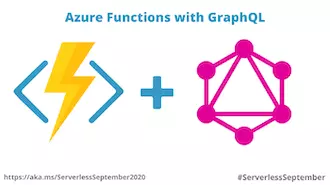
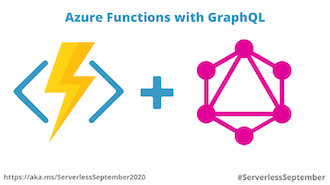
Changed png to webp

diff --git a/_layouts/home.html b/_layouts/home.html
@@ -776,7 +776,7 @@
 								<span class="category">Serverless</span>
 							</a><br>
 							<a href="https://medium.com/@ramanaditya/serverless-with-graphql-c0bf59078303">
-								<img src="assets/images/blog/serverless_with_graphql.png" alt="Serverless with GraphQL" />
+								<img src="assets/images/blog/serverless_with_graphql.webp" alt="Serverless with GraphQL" />
 							</a>
 						</div>
 						<div class="details">
@@ -797,7 +797,7 @@
 								<span class="category">Data Science</span>
 							</a><br>
 							<a href="https://medium.com/bellatrixdata/reconfigure-your-journey-to-data-science-44092971082c">
-								<img src="assets/images/blog/reconfigure_your_journey.png" alt="Reconfigure Your Journey to Data Science" />
+								<img src="assets/images/blog/reconfigure_your_journey.webp" alt="Reconfigure Your Journey to Data Science" />
 							</a>
 						</div>
 						<div class="details">
@@ -818,7 +818,7 @@
 								<span class="category">IoT</span>
 							</a><br>
 							<a href="https://www.linkedin.com/pulse/getting-started-micropython-nodemcu-esp8266-aditya-raman/">
-								<img src="assets/images/blog/getting_started_with_micropython.jpeg" alt="Getting Started with Micropython" />
+								<img src="assets/images/blog/getting_started_with_micropython.webp" alt="Getting Started with Micropython" />
 							</a>
 						</div>
 						<div class="details">
